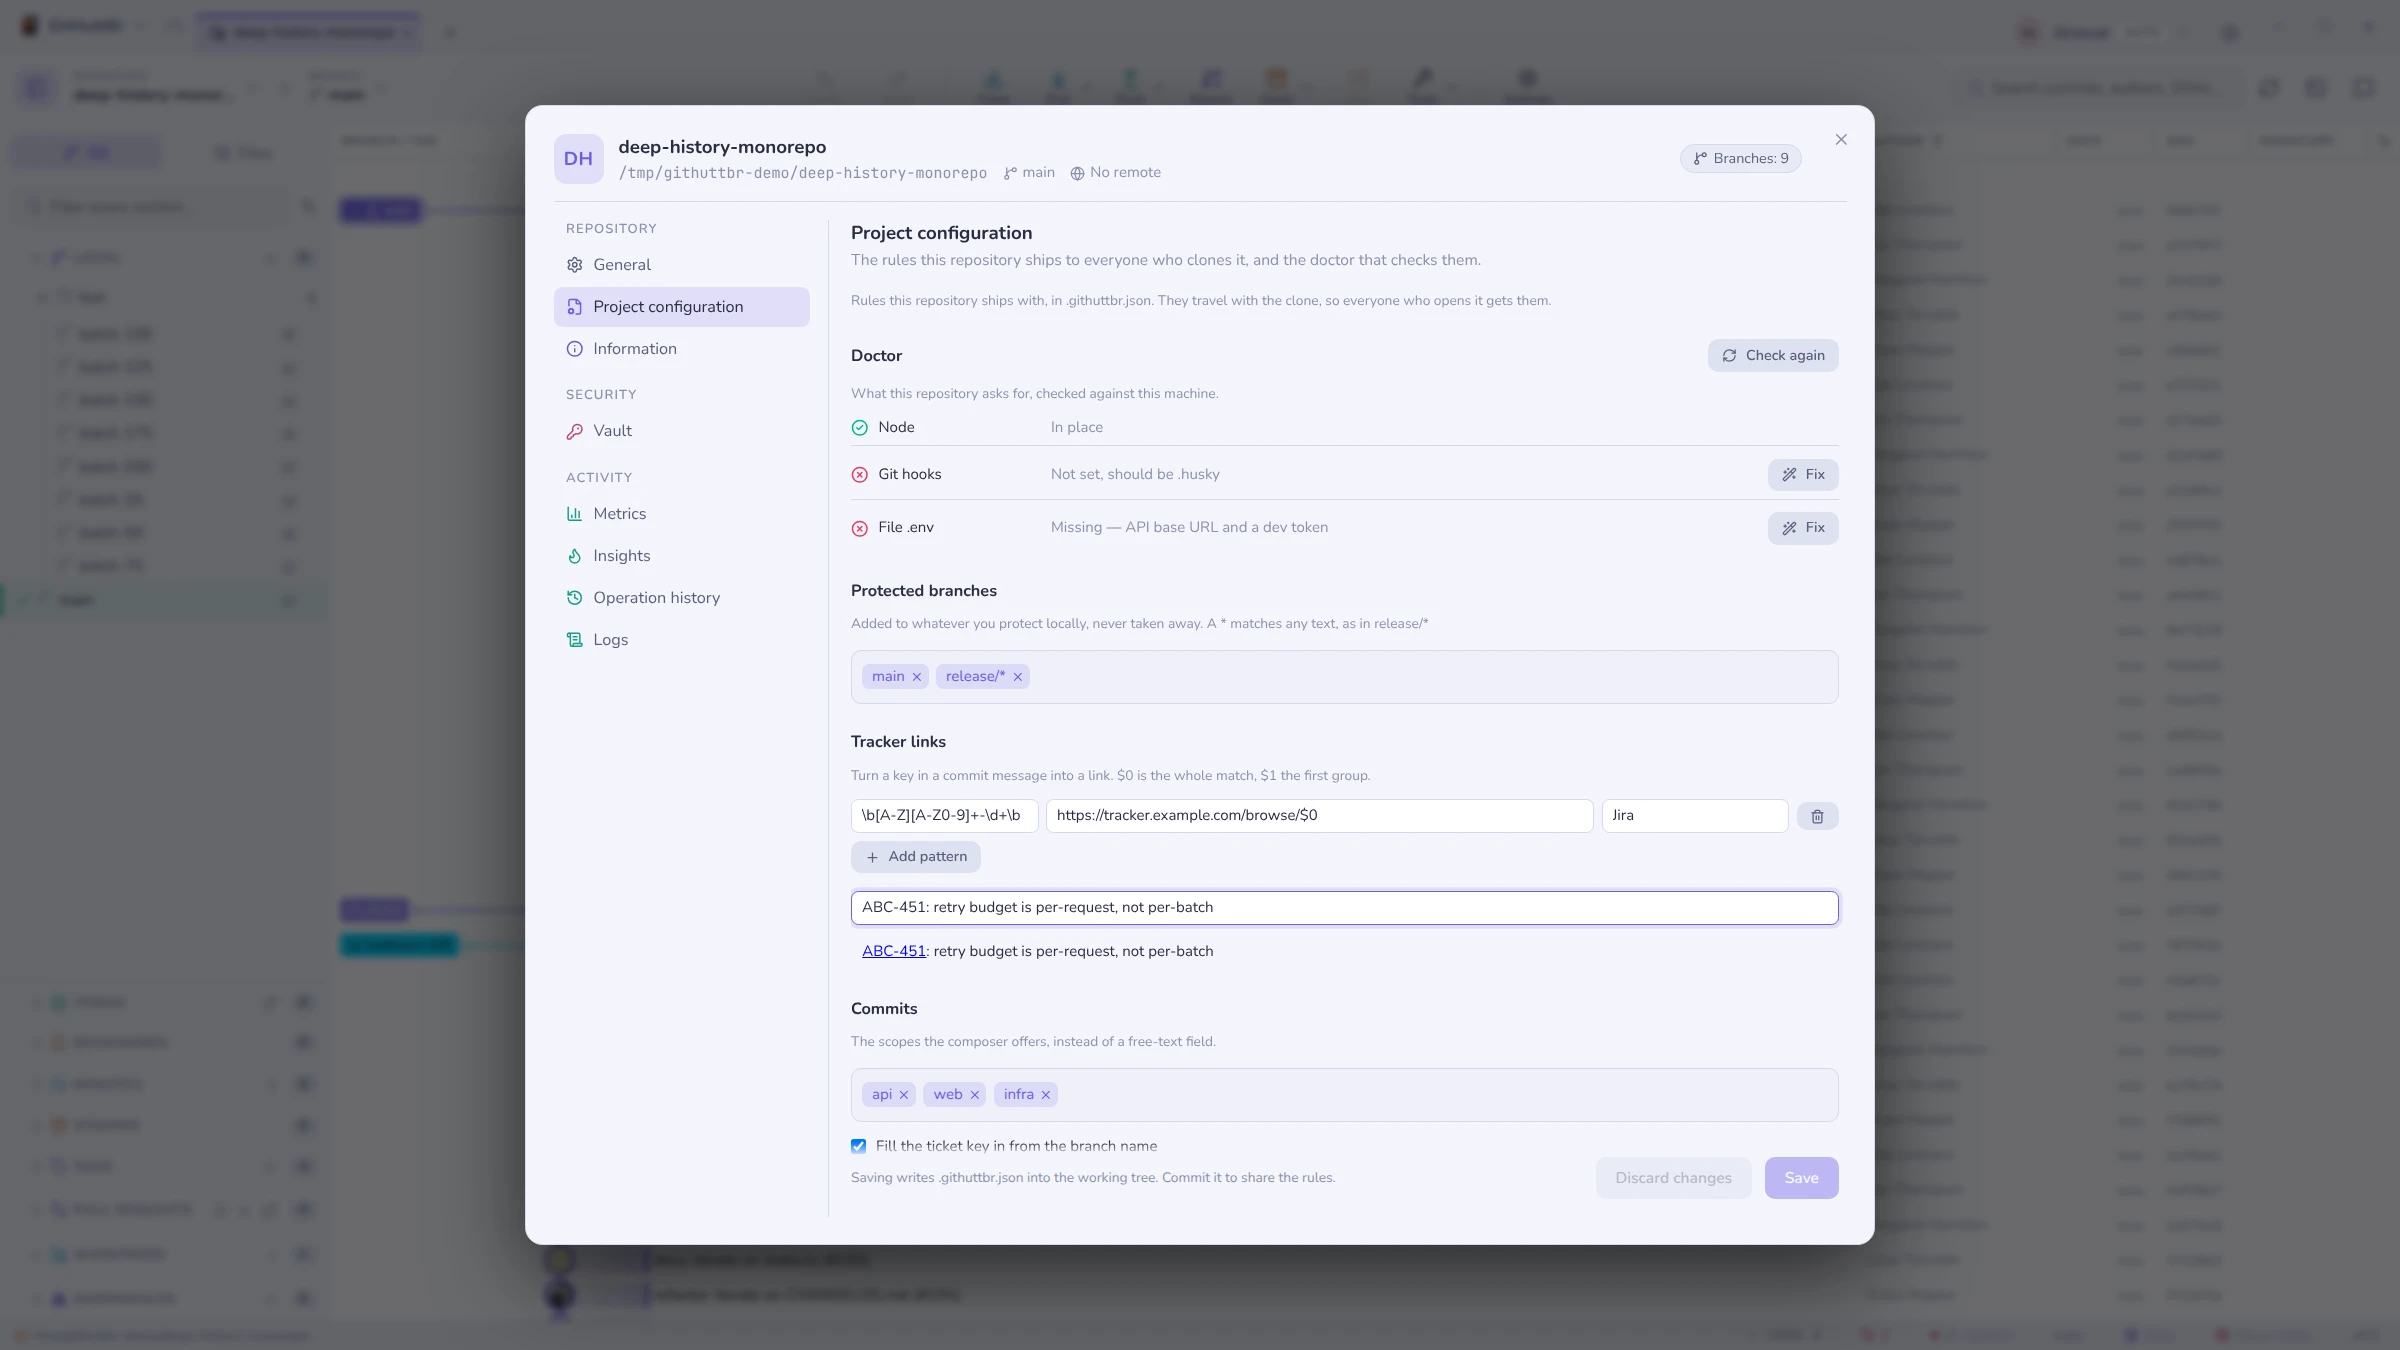
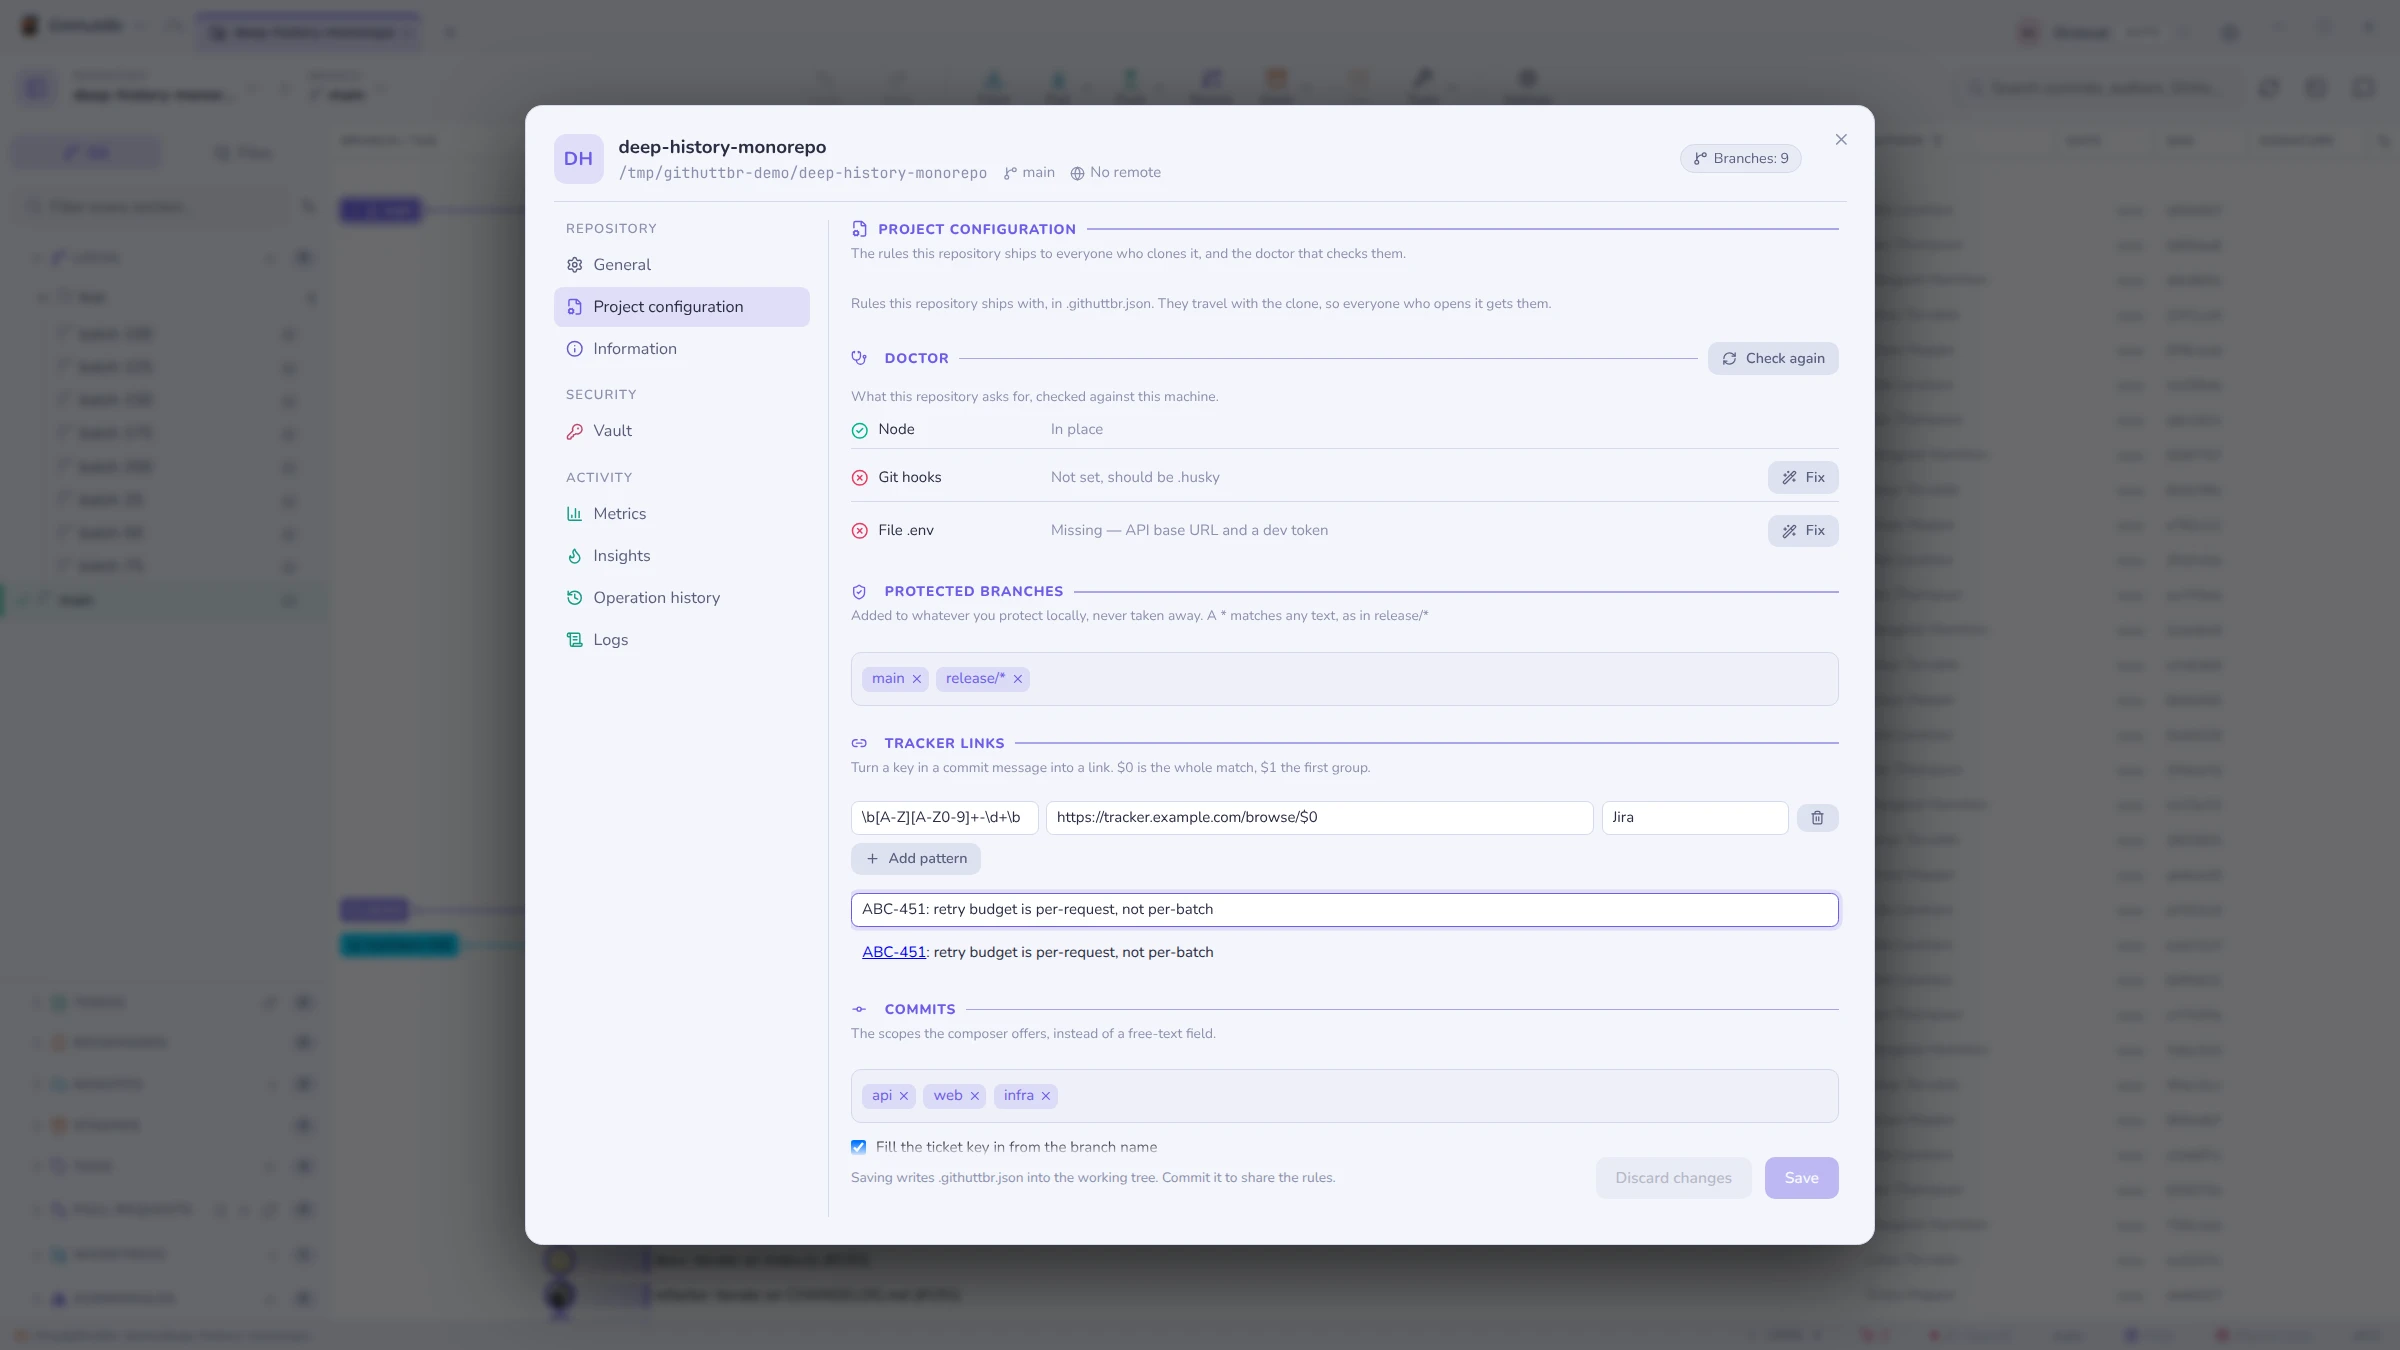
fix(repo-settings): section headings in the settings dialog's pattern
Repository settings now titles its pages and sections like app Settings: a
lucide icon, an uppercase accent title and a rule running to the right edge,
with the hint underneath. The dialog reuses Settings' own markup and classes
(settings-general-header, settings-section-title, theme-section-header for a
heading with an action) and the .settings-form h4 rules are extended to them.

- page head: the nav icon of the page, in the header pattern
- Project configuration: Doctor, Protected branches, Tracker links, Commits,
  Requirements, Before pushing get icons and the pattern
- Metrics, Operation history: their existing section titles now render styled
- Insights: churn, contributors and hotspots titles get the pattern

Regenerates the repo-settings and repo-config handbook shots.

diff --git a/src/renderer/src/components/RepoConfigTab.tsx b/src/renderer/src/components/RepoConfigTab.tsx
@@ -2,9 +2,15 @@ import { useEffect, useMemo, useState } from 'react'
 import {
   AlertTriangle,
   CheckCircle2,
+  GitCommitHorizontal,
+  Link2,
+  ListChecks,
   Loader2,
+  PackageCheck,
   Plus,
   RefreshCw,
+  ShieldCheck,
+  Stethoscope,
   Trash2,
   Wand2,
   XCircle
@@ -242,12 +248,17 @@ export function RepoConfigTab({ repoPath }: { repoPath: string }): React.JSX.Ele
 
       {doctor.length > 0 && (
         <section className="rc-section">
-          <h4>
-            {t('doctor.title')}
-            <button className="btn ghost small rc-head-btn" disabled={checking} onClick={() => void recheck()}>
-              {checking ? <Loader2 size={12} className="spin" /> : <RefreshCw size={12} />} {t('doctor.recheck')}
-            </button>
-          </h4>
+          <div className="theme-section-header">
+            <h4 className="settings-section-title">
+              <Stethoscope size={13} style={{ marginRight: 6, verticalAlign: '-2px' }} />
+              {t('doctor.title')}
+            </h4>
+            <div className="theme-section-actions">
+              <button className="btn ghost small" disabled={checking} onClick={() => void recheck()}>
+                {checking ? <Loader2 size={12} className="spin" /> : <RefreshCw size={12} />} {t('doctor.recheck')}
+              </button>
+            </div>
+          </div>
           <span className="settings-hint">{t('doctor.hint')}</span>
           {doctor.map((c) => (
             <DoctorRow key={c.id} check={c} repoPath={repoPath} />
@@ -256,7 +267,10 @@ export function RepoConfigTab({ repoPath }: { repoPath: string }): React.JSX.Ele
       )}
 
       <section className="rc-section">
-        <h4>{t('repoConfig.protect')}</h4>
+        <h4 className="settings-section-title">
+          <ShieldCheck size={13} style={{ marginRight: 6, verticalAlign: '-2px' }} />
+          {t('repoConfig.protect')}
+        </h4>
         <span className="settings-hint">{t('repoConfig.protectHint')}</span>
         <BranchMultiSelect
           options={branchOptions}
@@ -266,7 +280,10 @@ export function RepoConfigTab({ repoPath }: { repoPath: string }): React.JSX.Ele
       </section>
 
       <section className="rc-section">
-        <h4>{t('repoConfig.links')}</h4>
+        <h4 className="settings-section-title">
+          <Link2 size={13} style={{ marginRight: 6, verticalAlign: '-2px' }} />
+          {t('repoConfig.links')}
+        </h4>
         <span className="settings-hint">{t('repoConfig.linksHint')}</span>
         <div className="rc-list">
           {links.map((link, i) => (
@@ -329,7 +346,10 @@ export function RepoConfigTab({ repoPath }: { repoPath: string }): React.JSX.Ele
       </section>
 
       <section className="rc-section">
-        <h4>{t('repoConfig.commit')}</h4>
+        <h4 className="settings-section-title">
+          <GitCommitHorizontal size={13} style={{ marginRight: 6, verticalAlign: '-2px' }} />
+          {t('repoConfig.commit')}
+        </h4>
         <span className="settings-hint">{t('repoConfig.scopesHint')}</span>
         <BranchMultiSelect
           options={[]}
@@ -355,7 +375,10 @@ export function RepoConfigTab({ repoPath }: { repoPath: string }): React.JSX.Ele
       </section>
 
       <section className="rc-section">
-        <h4>{t('repoConfig.requires')}</h4>
+        <h4 className="settings-section-title">
+          <PackageCheck size={13} style={{ marginRight: 6, verticalAlign: '-2px' }} />
+          {t('repoConfig.requires')}
+        </h4>
         <span className="settings-hint">{t('repoConfig.requiresHint')}</span>
         <div className="rc-row">
           <label className="rc-label">{t('repoConfig.reqNode')}</label>
@@ -434,7 +457,10 @@ export function RepoConfigTab({ repoPath }: { repoPath: string }): React.JSX.Ele
       </section>
 
       <section className="rc-section">
-        <h4>{t('repoConfig.checklist')}</h4>
+        <h4 className="settings-section-title">
+          <ListChecks size={13} style={{ marginRight: 6, verticalAlign: '-2px' }} />
+          {t('repoConfig.checklist')}
+        </h4>
         <span className="settings-hint">{t('repoConfig.checklistHint')}</span>
         <LineList
           values={draft.checklist?.push ?? []}

diff --git a/src/renderer/src/styles.css b/src/renderer/src/styles.css
@@ -9713,8 +9713,10 @@ body.col-resizing .node-ava {
 
 /* Section titles carry the accent and a rule running to the far edge, so where
    one section ends and the next begins does not hang on reading small grey
-   capitals — it is a visible boundary, also for low vision. */
-.settings-form h4 {
+   capitals — it is a visible boundary, also for low vision. Repository settings
+   is the same kind of dialog, so its section titles take the same look. */
+.settings-form h4,
+.repo-settings-content .settings-section-title {
   display: flex;
   align-items: center;
   gap: 8px;
@@ -9725,7 +9727,8 @@ body.col-resizing .node-ava {
   color: var(--accent);
   margin-top: 18px;
 }
-.settings-form h4::after {
+.settings-form h4::after,
+.repo-settings-content .settings-section-title::after {
   content: '';
   flex: 1;
   min-width: 24px;
@@ -10859,7 +10862,8 @@ body.col-resizing .node-ava {
 }
 /* A hint right under a section title explains what follows, so it sits as a
    line of its own with room before the control — not glued to the select. */
-.settings-form h4 + .settings-hint {
+.settings-form h4 + .settings-hint,
+.repo-settings-content .settings-section-title + .settings-hint {
   display: block;
   margin: -2px 0 8px;
 }
@@ -20783,9 +20787,8 @@ mark.diff-find-hit.current { background: #ff9632; color: #10121a; }
 .repo-settings-nav-item.active { background: var(--accent-soft); color: var(--text-0); }
 .repo-settings-nav-item.active svg { color: var(--accent); }
 .repo-settings-content { flex: 1; min-width: 0; display: flex; flex-direction: column; min-height: 0; }
-.repo-settings-page-head { margin-bottom: 12px; }
-.repo-settings-page-head h4 { margin: 0 0 3px; font-size: 15px; }
-.repo-settings-page-head p { margin: 0; font-size: 12.5px; color: var(--text-2); }
+.repo-settings-page-head { margin-bottom: 12px; padding-inline-end: 6px; }
+.repo-settings-page-head .settings-section-title { margin-top: 0; }
 .repo-settings-content .repo-settings-body { padding-inline-end: 6px; }
 .repo-settings-banner {
   display: flex;
@@ -21922,13 +21925,10 @@ button.pck-chip:hover { color: var(--text-0); }
 
 .rc { display: flex; flex-direction: column; gap: 4px; }
 .rc-section { margin-top: 18px; display: flex; flex-direction: column; gap: 4px; }
-.rc-section > h4 {
-  display: flex;
-  align-items: center;
-  gap: 8px;
-  margin: 0 0 2px;
-}
-.rc-head-btn { margin-inline-start: auto; }
+/* The section already spaces itself; the title adds no gap of its own. */
+.rc-section > .settings-section-title,
+.rc-section > .theme-section-header { margin: 0 0 2px; }
+.rc-section .theme-section-header .settings-section-title { margin: 0; }
 .rc-empty {
   display: flex;
   flex-direction: column;

diff --git a/src/renderer/src/components/InsightsPage.tsx b/src/renderer/src/components/InsightsPage.tsx
@@ -1,6 +1,6 @@
 import { useEffect, useMemo, useState } from 'react'
 import { motion } from 'framer-motion'
-import { BarChart3, RefreshCw, GitCommit, Users, Flame, FileText } from 'lucide-react'
+import { Activity, BarChart3, RefreshCw, GitCommit, Users, Flame, FileText } from 'lucide-react'
 import { gitApi } from '../infrastructure/api'
 import { useUIStore } from '../stores/ui'
 import { useSettingsStore } from '../stores/settings'
@@ -132,7 +132,10 @@ export function InsightsPage({ repoPath }: { repoPath: string }): React.JSX.Elem
 
             {/* ── Churn timeline ── */}
             <section className="insights-section">
-              <h2>{t('insights.weeklyChurn')}</h2>
+              <h2 className="settings-section-title">
+                <Activity size={13} style={{ marginRight: 6, verticalAlign: '-2px' }} />
+                {t('insights.weeklyChurn')}
+              </h2>
               <div className="churn-chart">
                 {data.churn.map((c) => {
                   const h = ((c.added + c.removed) / maxChurn) * 100
@@ -160,7 +163,10 @@ export function InsightsPage({ repoPath }: { repoPath: string }): React.JSX.Elem
             <div className="insights-cols">
               {/* ── Top authors ── */}
               <section className="insights-section">
-                <h2>{t('insights.topContributors')}</h2>
+                <h2 className="settings-section-title">
+                  <Users size={13} style={{ marginRight: 6, verticalAlign: '-2px' }} />
+                  {t('insights.topContributors')}
+                </h2>
                 <div className="insights-rows">
                   {data.authors.slice(0, 12).map((a, i) => (
                     <div key={a.name} className="insights-row">
@@ -183,7 +189,10 @@ export function InsightsPage({ repoPath }: { repoPath: string }): React.JSX.Elem
 
               {/* ── Hotspots ── */}
               <section className="insights-section">
-                <h2>{t('insights.hotspots')}</h2>
+                <h2 className="settings-section-title">
+                  <Flame size={13} style={{ marginRight: 6, verticalAlign: '-2px' }} />
+                  {t('insights.hotspots')}
+                </h2>
                 <div className="insights-rows">
                   {data.hotspots.map((h) => (
                     <button

diff --git a/src/renderer/src/components/RepoSettingsModal.tsx b/src/renderer/src/components/RepoSettingsModal.tsx
@@ -434,9 +434,12 @@ export function RepoSettingsModal({ repoPath, initialTab }: { repoPath: string; 
           ))}
         </nav>
         <section className="repo-settings-content">
-          <div className="repo-settings-page-head">
-            <h4>{t(current.labelKey)}</h4>
-            <p>{t(current.descriptionKey)}</p>
+          {/* The page title reads like a Settings page heading: icon, accent, rule. */}
+          <div className="settings-general-header repo-settings-page-head">
+            <h4 className="settings-section-title">
+              {PAGE_ICON[page]} {t(current.labelKey)}
+            </h4>
+            <p className="settings-hint">{t(current.descriptionKey)}</p>
           </div>
           <div className="repo-settings-body">
             {page === 'general' && <GeneralTab repoPath={repoPath} onOpenPage={setPage} />}
